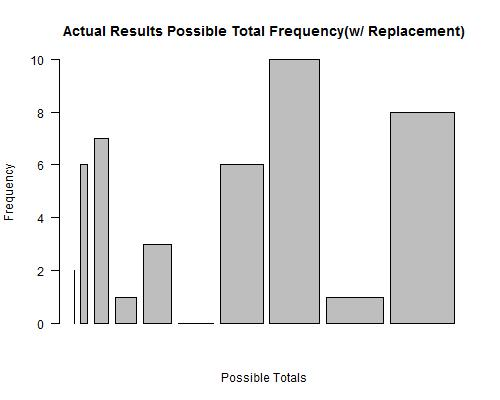
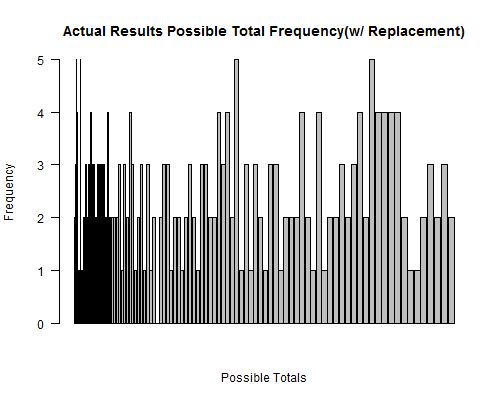
Hypergeometric Experiment

diff --git a/src/Controller/RConnector.java b/src/Controller/RConnector.java
@@ -156,6 +156,65 @@ import java.io.FileNotFoundException;
      return result;
    }  
    
+   public static int[][] hyperWithReplacement()throws RserveException, REXPMismatchException, FileNotFoundException, IOException {  
+     RConnection c = new RConnection("localhost", 6311);  
+     int[][] result = new int[Card.nTrials][Card.drawCards];
+     int i=0,j=0;
+     if(c.isConnected()) {  
+       System.out.println("Connected to RServe.");  
+       org.rosuda.REngine.REXP x0 = c.eval("R.version.string");  
+       System.out.println(x0.asString());  
+       REXP exp = null;
+       while(i<Card.nTrials){
+           for(int k =0; k<Card.drawCards; k++){
+               exp = c.eval("rhyper(1,26,26,1)");
+               result[i][k] = exp.asInteger();
+           }
+           i++;
+       }
+     } else {  
+       System.out.println("Rserve could not connect");  
+     }  
+     c.close();  
+     System.out.println("Session Closed");  
+     return result;
+   }  
+   
+   public static int[][] hyperWithoutReplacement()throws RserveException, REXPMismatchException, FileNotFoundException, IOException {  
+     RConnection c = new RConnection("localhost", 6311);  
+     int[][] result = new int[Card.nTrials][Card.drawCards];
+     int i=0;
+     if(c.isConnected()) {  
+       System.out.println("Connected to RServe.");  
+       org.rosuda.REngine.REXP x0 = c.eval("R.version.string");  
+       System.out.println(x0.asString());  
+       REXP exp = null;
+       int red = 26, black = 26;
+       while(i<Card.nTrials){
+           for(int k =0; k<Card.drawCards; k++){
+               if(k==0)
+                exp = c.eval("rhyper(1,26,26,1)");
+               else{
+                   exp = c.eval("rhyper(1,"+red+","+black+",1)");
+                   if(exp.asInteger() == 0)
+                       red--;
+                   else
+                       black--;
+               }
+               result[i][k] = exp.asInteger();
+           }
+           i++;
+           red = 26;
+           black = 26;
+       }
+     } else {  
+       System.out.println("Rserve could not connect");  
+     }  
+     c.close();  
+     System.out.println("Session Closed");  
+     return result;
+   }
+   
    public static int[][] multinom()throws RserveException, REXPMismatchException, FileNotFoundException, IOException {  
      RConnection c = new RConnection("localhost", 6311);  
      int[][] result = new int[Card.nTrials][Card.drawCards];
@@ -230,7 +289,7 @@ import java.io.FileNotFoundException;
                total += result1[i][j];
            }
            d = total/(Card.drawCards*13);
-           if(Card.experiment == 0)
+           if(Card.experiment == 0 || Card.experiment == 2)
                d = (double)total/(Card.drawCards);
            if(i==0)
                temp = temp.concat(d+"");
@@ -249,7 +308,7 @@ import java.io.FileNotFoundException;
                total += result2[i][j];
            }
            d = total/(Card.drawCards*13);
-           if(Card.experiment == 0)
+           if(Card.experiment == 0 || Card.experiment == 2)
                d = (double)total/(Card.drawCards);
            if(i==0)
                temp = temp.concat(d+"");
@@ -264,7 +323,7 @@ import java.io.FileNotFoundException;
         temp = "";
         for(int i=0; i<result1.length; i++){
            d = Card.desiredTotal/(Card.drawCards*13);
-           if(Card.experiment == 0)
+           if(Card.experiment == 0 || Card.experiment == 2)
                d = (double)total/(Card.drawCards);
            if(i==0)
                temp = temp.concat(d+"");
@@ -278,7 +337,7 @@ import java.io.FileNotFoundException;
         temp = "";
         for(int i=0; i<result2.length; i++){
            d = Card.desiredTotal/(Card.drawCards*13);
-           if(Card.experiment == 0)
+           if(Card.experiment == 0 || Card.experiment == 2)
                d = (double)total/(Card.drawCards);
            if(i==0)
                temp = temp.concat(d+"");

diff --git a/src/View/DesiredTotal.java b/src/View/DesiredTotal.java
@@ -73,8 +73,8 @@ public class DesiredTotal extends JFrame implements ActionListener{
                     }
                     else if(Card.experiment == 2){
                         //hypergeometric
-                        result1 = Controller.RConnector.withReplacement();
-                        result2 = Controller.RConnector.withoutReplacement();
+                        result1 = Controller.RConnector.hyperWithReplacement();
+                        result2 = Controller.RConnector.hyperWithoutReplacement();
                         SaveLoadController.saveLog2DArray(result1, result2);
                         RConnector.createPlot(result1, result2);
                     }
